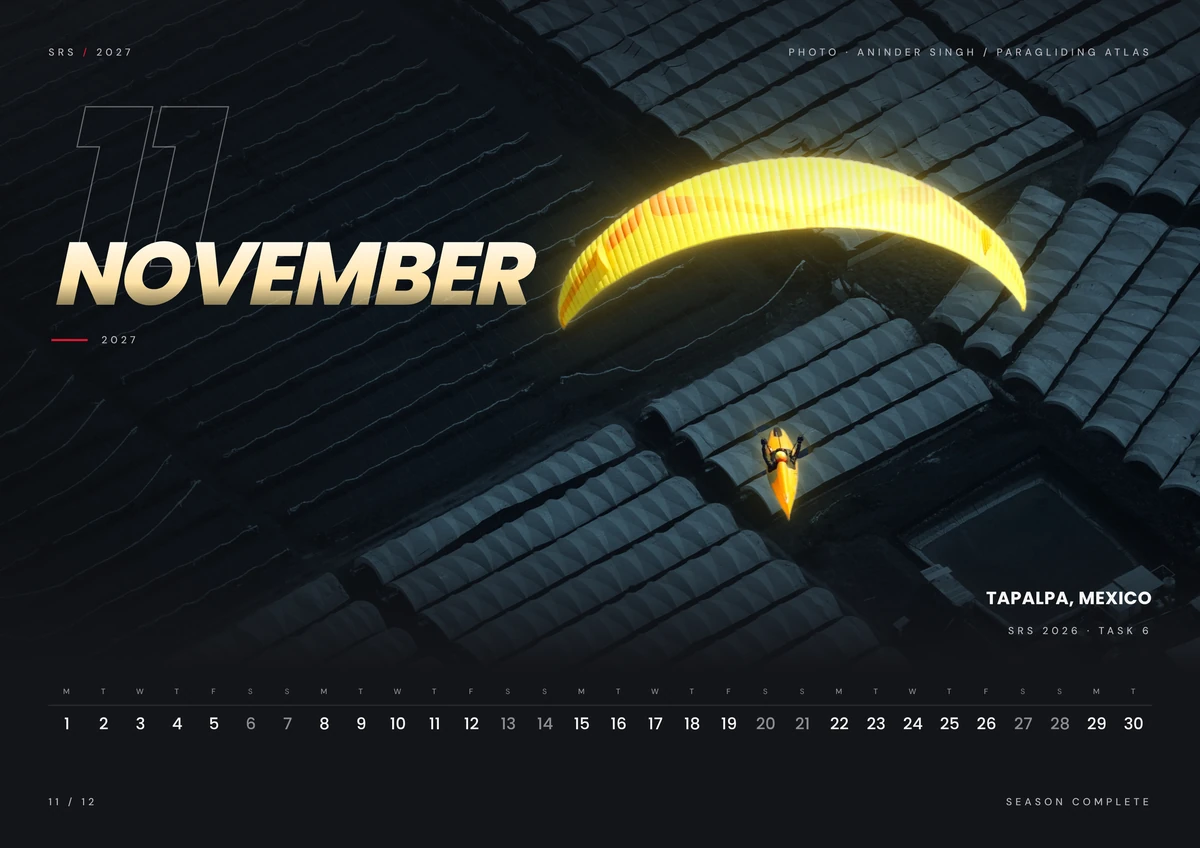
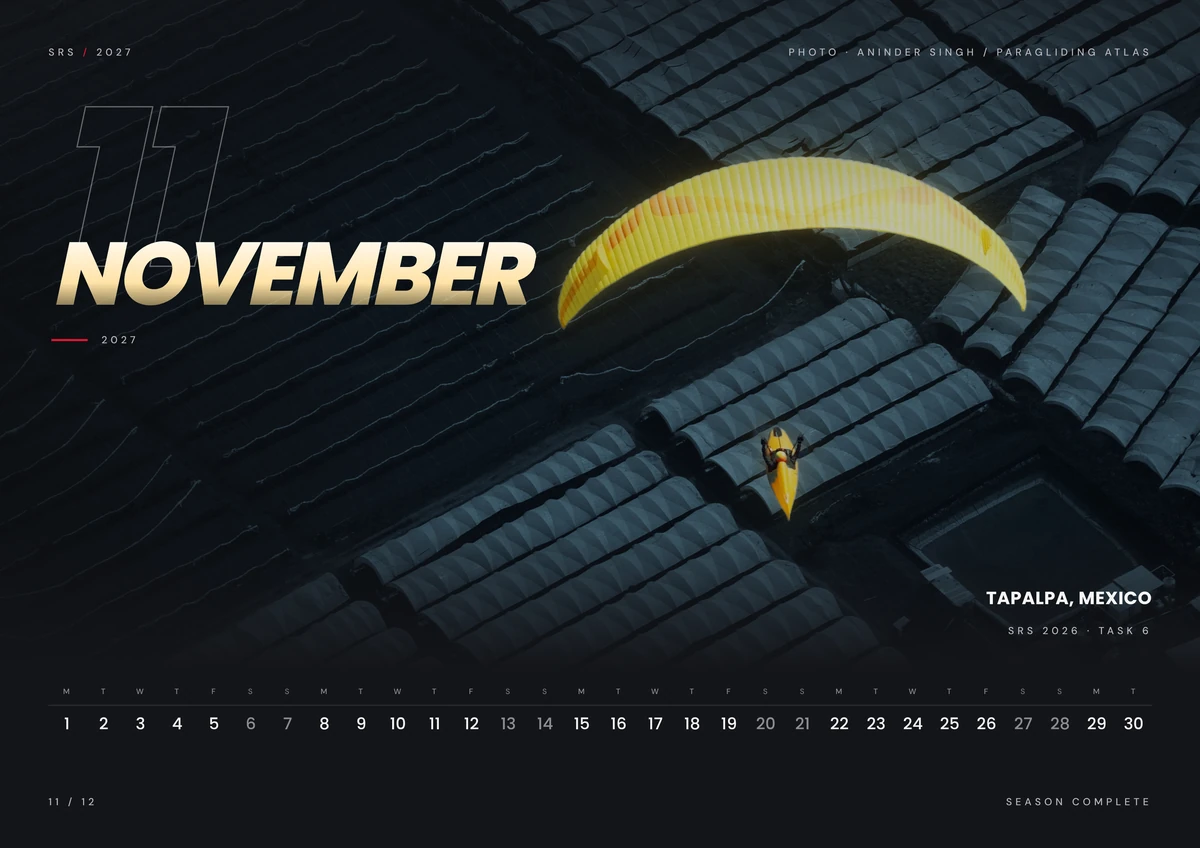
SRS 2027 calendar: November's wing toned down (owner, 24 Nov)
Claude-Session: https://claude.ai/code/session_018Da7i8f9zcFTF92MPPAuQT

Changed region(s): [[0.4317, 0.1533, 0.8633, 0.3986], [0.6167, 0.4906, 0.6783, 0.6132]]

diff --git a/prototypes/v4/srs-2027-calendar.html b/prototypes/v4/srs-2027-calendar.html
@@ -354,9 +354,9 @@ setTimeout(show,500)})();</script><!--/v4ld-->
   </figcaption>
 </figure>
 <figure class="cal-sheet cal-c" id="november" data-share-box>
-  <span class="cal-glow" style="background-image:url(img/calendar/srs-2027/12-november-1200.webp?v=59e120d5)" aria-hidden="true"></span>
-  <a class="cal-page" href="img/calendar/srs-2027/12-november-2400.webp?v=3c569b4e" data-cal="11" aria-label="November: see the page large">
-    <img src="img/calendar/srs-2027/12-november-1200.webp?v=59e120d5" srcset="img/calendar/srs-2027/12-november-1200.webp?v=59e120d5 1200w, img/calendar/srs-2027/12-november-2400.webp?v=3c569b4e 2400w" sizes="(max-width:760px) 100vw, min(1500px, 88vw)" width="2400" height="1696" alt="The November 2027 page of the SRS race calendar: a pilot in a yellow pod under a yellow wing, seen from above over rows of greenhouses, beside the month&#x27;s dates" loading="lazy" decoding="async">
+  <span class="cal-glow" style="background-image:url(img/calendar/srs-2027/12-november-1200.webp?v=77f157a6)" aria-hidden="true"></span>
+  <a class="cal-page" href="img/calendar/srs-2027/12-november-2400.webp?v=05c6af83" data-cal="11" aria-label="November: see the page large">
+    <img src="img/calendar/srs-2027/12-november-1200.webp?v=77f157a6" srcset="img/calendar/srs-2027/12-november-1200.webp?v=77f157a6 1200w, img/calendar/srs-2027/12-november-2400.webp?v=05c6af83 2400w" sizes="(max-width:760px) 100vw, min(1500px, 88vw)" width="2400" height="1696" alt="The November 2027 page of the SRS race calendar: a pilot in a yellow pod under a yellow wing, seen from above over rows of greenhouses, beside the month&#x27;s dates" loading="lazy" decoding="async">
   </a>
   <figcaption>
     <span class="cal-no">11 / 12</span>
@@ -364,7 +364,7 @@ setTimeout(show,500)})();</script><!--/v4ld-->
     
     <span class="cal-ph">Photo: SRS Tapalpa 2026, Task 6</span>
     <span class="cal-act">
-      <a class="cal-dl" href="img/calendar/srs-2027/12-november-2400.webp?v=3c569b4e" download="SRS-2027-Race-Calendar-November.webp"><svg viewBox="0 0 20 20" aria-hidden="true"><path d="M10 3v10M6.2 9.2 10 13l3.8-3.8M4 16.5h12"/></svg><span>Download</span></a>
+      <a class="cal-dl" href="img/calendar/srs-2027/12-november-2400.webp?v=05c6af83" download="SRS-2027-Race-Calendar-November.webp"><svg viewBox="0 0 20 20" aria-hidden="true"><path d="M10 3v10M6.2 9.2 10 13l3.8-3.8M4 16.5h12"/></svg><span>Download</span></a>
       <button type="button" data-share data-share-url="#november" data-share-title="November"></button>
     </span>
   </figcaption>

diff --git a/tools/srs_calendar_2027/november-bc/nov_grade.py b/tools/srs_calendar_2027/november-bc/nov_grade.py
@@ -24,11 +24,13 @@ yy, xx = np.mgrid[0:H, 0:W].astype(np.float32)
 vig = np.clip(1.2 - 1.0 * np.sqrt(((xx - W * .62) / W) ** 2 + ((yy - H * .5) / H) ** 2) ** 1.4, .28, 1)[..., None]
 bg = bg * vig
 gs = Image.fromarray((wing[..., 0] * 255).astype(np.uint8))
-glow = sum(np.asarray(gs.filter(ImageFilter.GaussianBlur(rr))).astype(np.float32)[..., None] / 255 * k for rr, k in ((10, .45), (50, .45), (140, .35)))
+glow = sum(np.asarray(gs.filter(ImageFilter.GaussianBlur(rr))).astype(np.float32)[..., None] / 255 * k for rr, k in ((10, .16), (50, .16), (140, .14)))
 glow = glow * np.array([1.0, .78, .1], np.float32)
 x = 1 - (1 - np.clip(bg, 0, 1)) * (1 - np.clip(glow, 0, 1))
-w2 = src + (src - lum) * .2
-x = x * (1 - wing) + np.clip(w2 * 1.05, 0, 1) * wing
+w2 = src + (src - lum) * .12
+w2 = np.clip(w2, 0, 1) * .86
+w2 = np.where(w2 > .55, .55 + (w2 - .55) * .62, w2)          # roll the highlights off: the panels and seams show
+x = x * (1 - wing) + w2 * wing
 x = np.clip(x + np.random.default_rng(6).normal(0, .009, (H, W, 1)).astype(np.float32), 0, 1)
 Image.fromarray((x * 255 + .5).astype(np.uint8)).save(D + '/work/nov_bc.jpg', quality=95, subsampling=0)
 print('ok', round(float(wing.mean()), 4))
